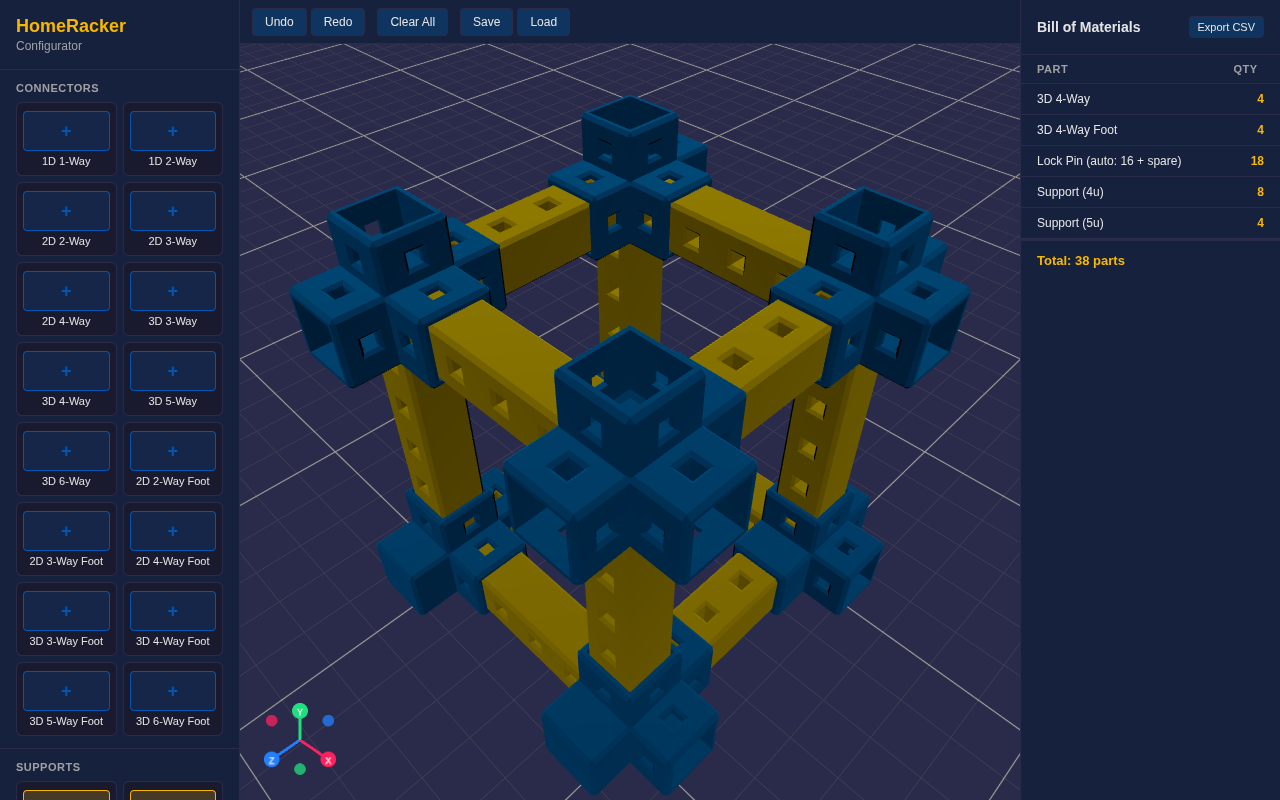
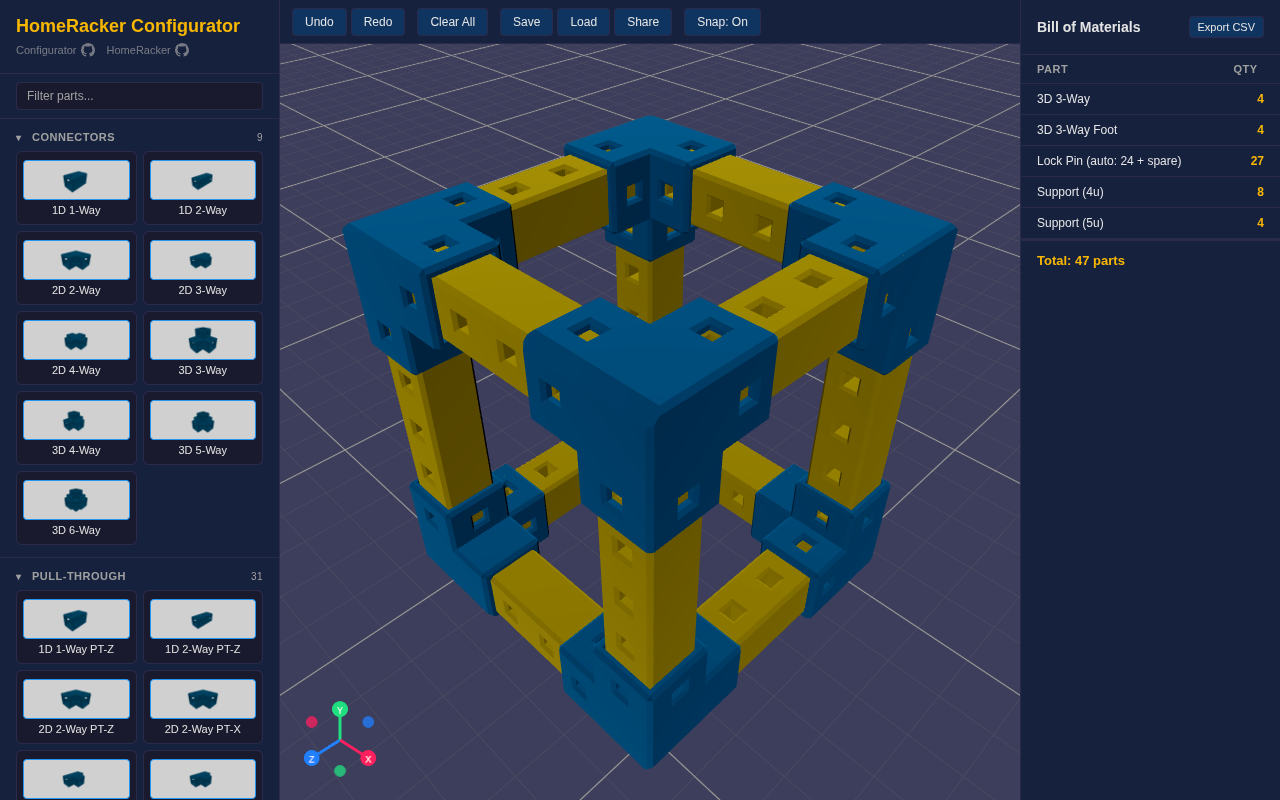
Updated screenshot

diff --git a/scripts/screenshot.ts b/scripts/screenshot.ts
@@ -72,7 +72,7 @@ page.on("console", (msg) => {
 page.on("pageerror", (err) => console.error("[PAGE ERR]", err.message));
 
 await page.goto(baseUrl, { waitUntil: "networkidle0", timeout: 15000 });
-await new Promise((r) => setTimeout(r, 2000));
+//await new Promise((r) => setTimeout(r, 2000));
 
 // Build a small assembly so the screenshot isn't empty
 await page.evaluate(() => {
@@ -80,11 +80,11 @@ await page.evaluate(() => {
   if (!asm) return;
   asm.clear();
 
-  // Bottom layer: 4 foot connectors at corners
-  asm.addPart("connector-3d4w-foot", [0, 0, 0]);
-  asm.addPart("connector-3d4w-foot", [5, 0, 0]);
-  asm.addPart("connector-3d4w-foot", [0, 0, 5]);
-  asm.addPart("connector-3d4w-foot", [5, 0, 5]);
+  // Bottom layer: 4 foot connectors at corners (rotate arms toward adjacent supports)
+  asm.addPart("connector-3d3w-foot", [0, 0, 0], [0, 0, 0]);     // arms: +x, +y, +z
+  asm.addPart("connector-3d3w-foot", [5, 0, 0], [0, 270, 0]);   // arms: -x, +y, +z
+  asm.addPart("connector-3d3w-foot", [0, 0, 5], [0, 90, 0]);    // arms: +x, +y, -z
+  asm.addPart("connector-3d3w-foot", [5, 0, 5], [0, 180, 0]);   // arms: -x, +y, -z
 
   // Vertical supports on each corner
   asm.addPart("support-5u", [0, 1, 0], [0, 0, 0], "y");
@@ -100,11 +100,11 @@ await page.evaluate(() => {
   asm.addPart("support-4u", [0, 0, 1], [0, 0, 0], "z");
   asm.addPart("support-4u", [5, 0, 1], [0, 0, 0], "z");
 
-  // Top connectors
-  asm.addPart("connector-3d4w", [0, 6, 0]);
-  asm.addPart("connector-3d4w", [5, 6, 0]);
-  asm.addPart("connector-3d4w", [0, 6, 5]);
-  asm.addPart("connector-3d4w", [5, 6, 5]);
+  // Top connectors (arms face down toward vertical supports + out toward horizontal)
+  asm.addPart("connector-3d3w", [0, 6, 0], [90, 0, 0]);       // arms: +x, -y, +z
+  asm.addPart("connector-3d3w", [5, 6, 0], [90, 270, 0]);     // arms: -x, -y, +z
+  asm.addPart("connector-3d3w", [0, 6, 5], [180, 0, 0]);      // arms: +x, -y, -z
+  asm.addPart("connector-3d3w", [5, 6, 5], [180, 270, 0]);    // arms: -x, -y, -z
 
   // Top horizontal supports along X axis (front and back)
   asm.addPart("support-4u", [1, 6, 0], [0, 0, 0], "x");
@@ -114,7 +114,7 @@ await page.evaluate(() => {
   asm.addPart("support-4u", [0, 6, 1], [0, 0, 0], "z");
   asm.addPart("support-4u", [5, 6, 1], [0, 0, 0], "z");
 });
-await new Promise((r) => setTimeout(r, 3000));
+await new Promise((r) => setTimeout(r, 300));
 
 const screenshotPath = join(PROJECT_ROOT, "screenshot.png");
 await page.screenshot({ path: screenshotPath, fullPage: false });
